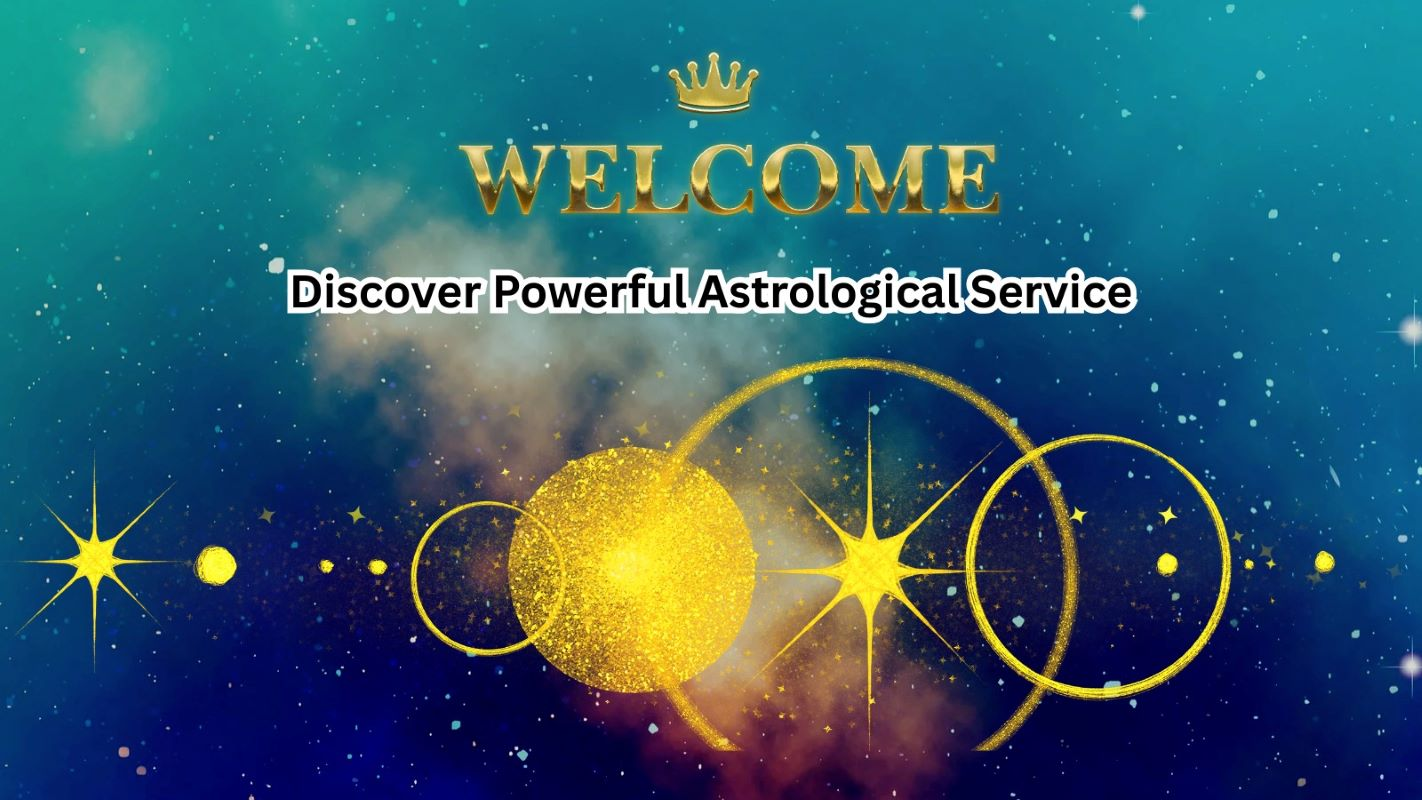
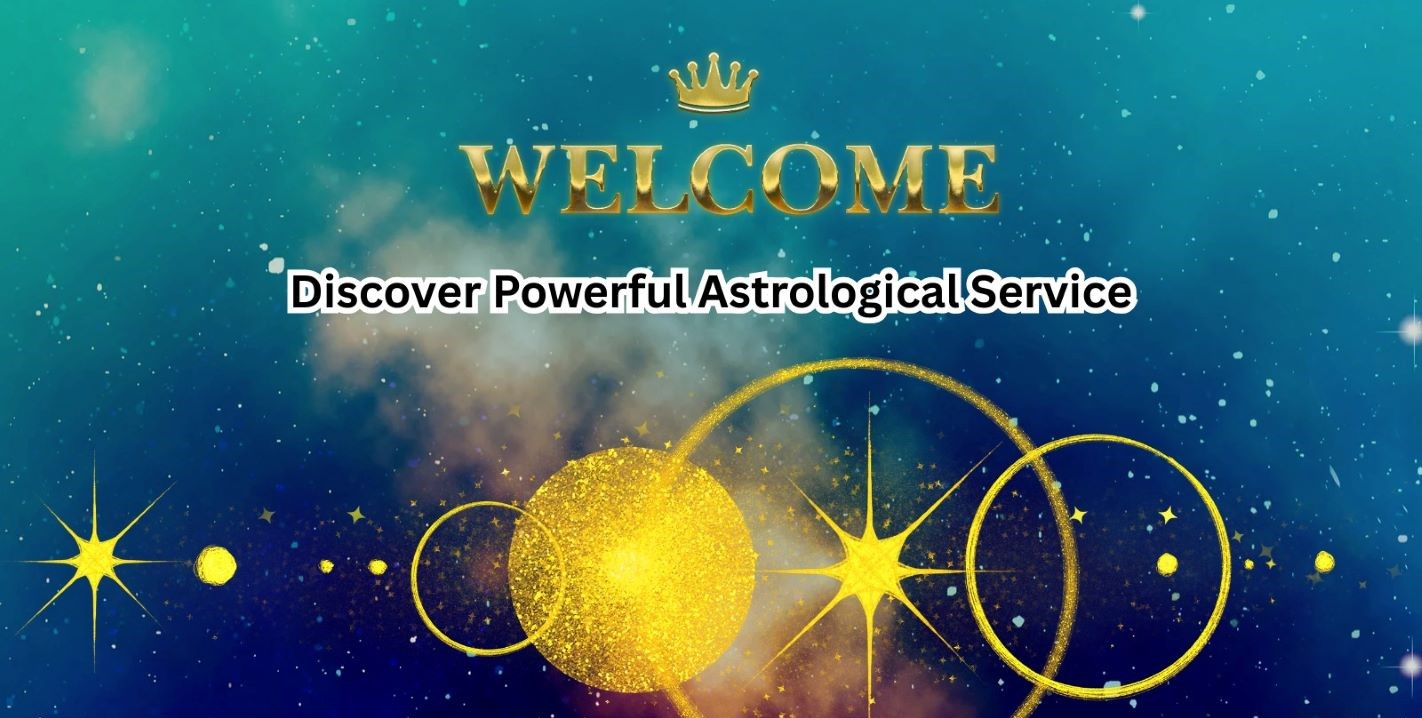
changes

diff --git a/src/component/Product/Products.css b/src/component/Product/Products.css
@@ -108,19 +108,19 @@
   }
 }
 
-@media (max-width: 600px) {
+/* @media (max-width: 600px) {
   .products-banner {
     height: 35vh;
     padding: 2rem 0;
   }
-}
+} */
 
 .products-banner {
-  background-image: url("../../images/cover22.jpg");
+  background-image: url("../../images/products.jpg");
   background-position: center;
   background-repeat: no-repeat;
   background-size: cover;
-  height: 70vh;
+  height: 97vh;
   display: flex;
   flex-direction: column;
   text-align: center;
@@ -285,5 +285,18 @@
   .search-filter {
     width: 100%;
     max-width: none;
+  }
+}
+
+/* .products-banner  */
+
+@media screen and (max-width: 500px) {
+  .products-banner {
+    background-image: url("../../images/5.png");
+    background-size: cover;
+    background-position: center;
+    background-repeat: no-repeat;
+    height: 100vh;
+    width: 100%;
   }
 }

diff --git a/src/component/layout/Contact/Contact.css b/src/component/layout/Contact/Contact.css
@@ -32,7 +32,7 @@
   background-position: center;
   background-repeat: no-repeat;
   background-size: cover;
-  height: 70vh;
+  height: 100vh;
   display: flex;
   flex-direction: column;
   text-align: center;
@@ -331,5 +331,20 @@
 
   .info-item h4 {
     font-size: 1.1rem;
+  }
+}
+
+
+/* .contact-banner */
+
+
+@media screen and (max-width: 500px) {
+  .contact-banner {
+    background-image: url("../../../images/6.png");
+    background-size: cover;
+    background-position: center;
+    background-repeat: no-repeat;
+    height: 100vh;
+    width: 100%;
   }
 }

diff --git a/src/component/Services/Services.css b/src/component/Services/Services.css
@@ -101,7 +101,7 @@
   background-position: center;
   background-repeat: no-repeat;
   background-size: cover;
-  height: 80vh;
+  height: 100vh;
   display: flex;
   flex-direction: column;
   text-align: center;
@@ -293,3 +293,17 @@
     grid-template-columns: 1fr;
   }
 } 
+
+
+
+
+@media screen and (max-width: 500px) {
+  .services-banner {
+    background-image: url("../../images/3.png");
+    background-size: cover;
+    background-position: center;
+    background-repeat: no-repeat;
+    height: 100vh;
+    width: 100%;
+  }
+}

diff --git a/src/component/layout/About/aboutSection.css b/src/component/layout/About/aboutSection.css
@@ -123,6 +123,8 @@
   }
 }
 
+
+
 .about-banner {
   background-image: url("../../../images/cover22.jpg");
   background-position: center;
@@ -234,5 +236,22 @@
   }
   .about-description p {
     font-size: 1rem;
+  }
+}
+
+
+
+
+/* .about-banner  */
+
+
+@media screen and (max-width: 500px) {
+  .about-banner {
+    background-image: url("../../../images/4.png");
+    background-size: cover;
+    background-position: center;
+    background-repeat: no-repeat;
+    height: 100vh;
+    width: 100%;
   }
 }

diff --git a/src/component/Home/Home.css b/src/component/Home/Home.css
@@ -146,3 +146,18 @@
     font-size: 1rem;
   }
 }
+/* Mobile background image */
+@media screen and (max-width: 600px) {
+  .banner {
+    background-image: url("../../images/mobile.jpeg");
+    background-size: cover; /* optionally you can use 100% 100% if needed */
+    background-position: center;
+    background-repeat: no-repeat;
+    height: 80vh;
+    width: 100%;
+  }
+
+  .services-description-modern p {
+    font-size: 1rem;
+  }
+}
